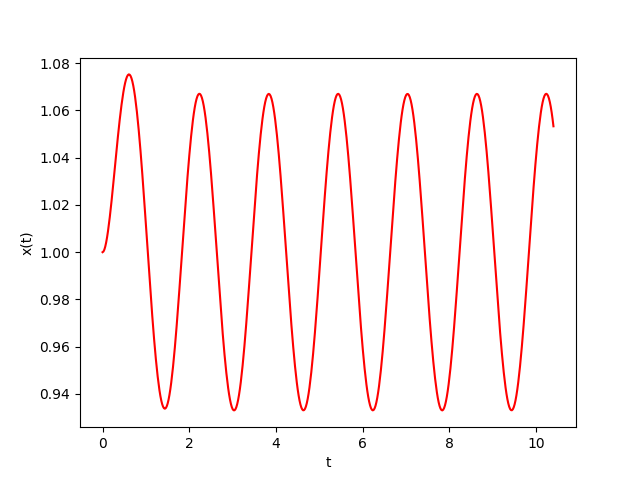
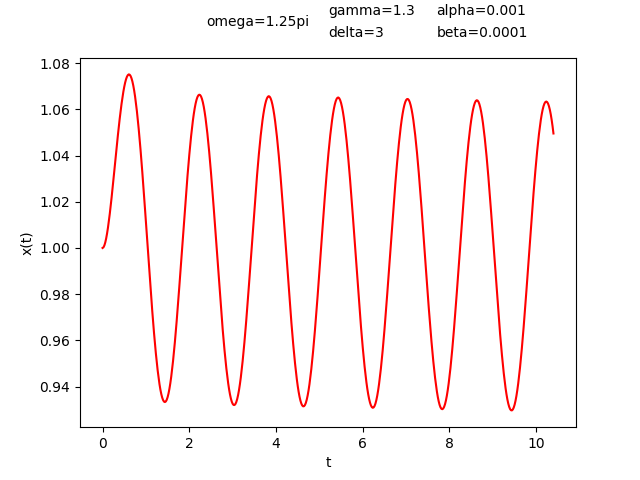
update_loss

diff --git a/src/numerical_methods/Runge_kut_scipy.py b/src/numerical_methods/Runge_kut_scipy.py
@@ -51,7 +51,7 @@ if __name__ == "__main__": # pragma: no cover
     plt.plot(t, sol.y[0, :], 'r')
     plt.xlabel('t')
     plt.ylabel('x(t)')
-    dl = (max(sol.y[0]) - min(sol.y[1]))*0.052 # <- change the last parameter to align the labels
+    dl = (max(sol.y[0]) - min(sol.y[1]))*0.012 # <- change the last parameter to align the labels
     plt.text(t[-1]/2-2.8, max(sol.y[0, :])+1.3*dl, f"omega={'' if l==1 else l}pi")
     plt.text(t[-1]/2, max(sol.y[0])+1.6*dl, f"gamma={gamma}")
     plt.text(t[-1]/2, max(sol.y[0])+dl, f"delta={delta}")
